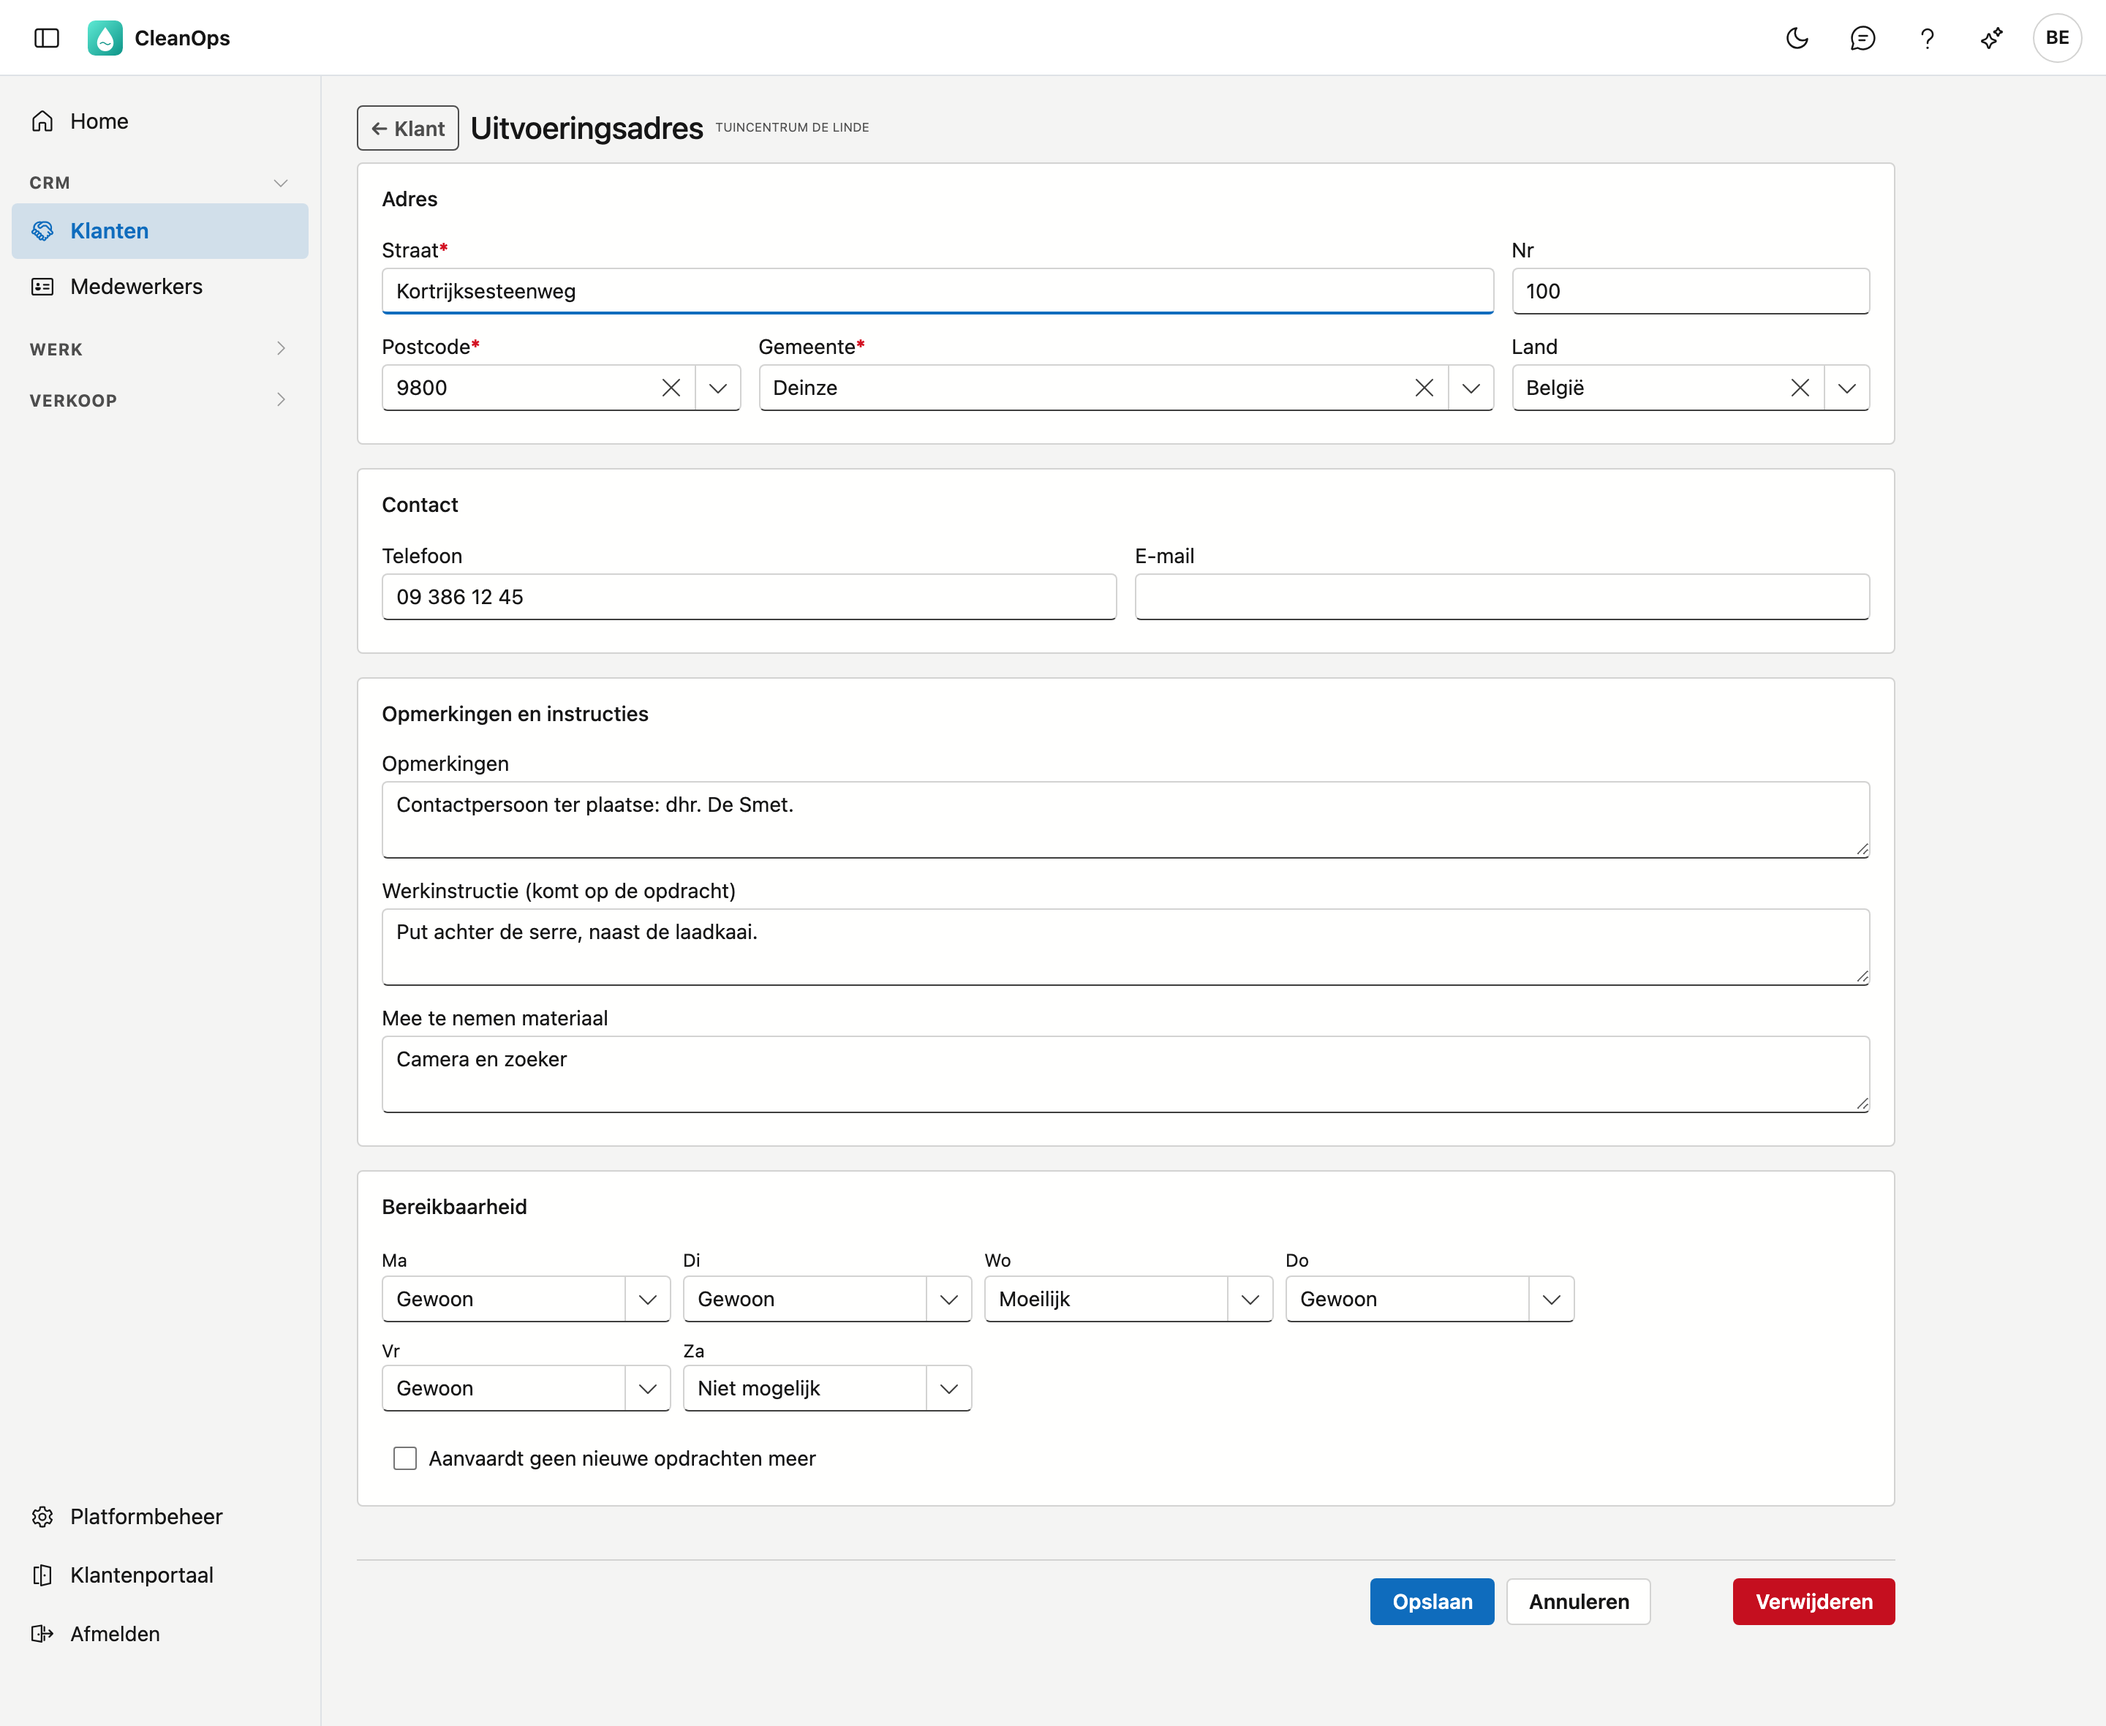
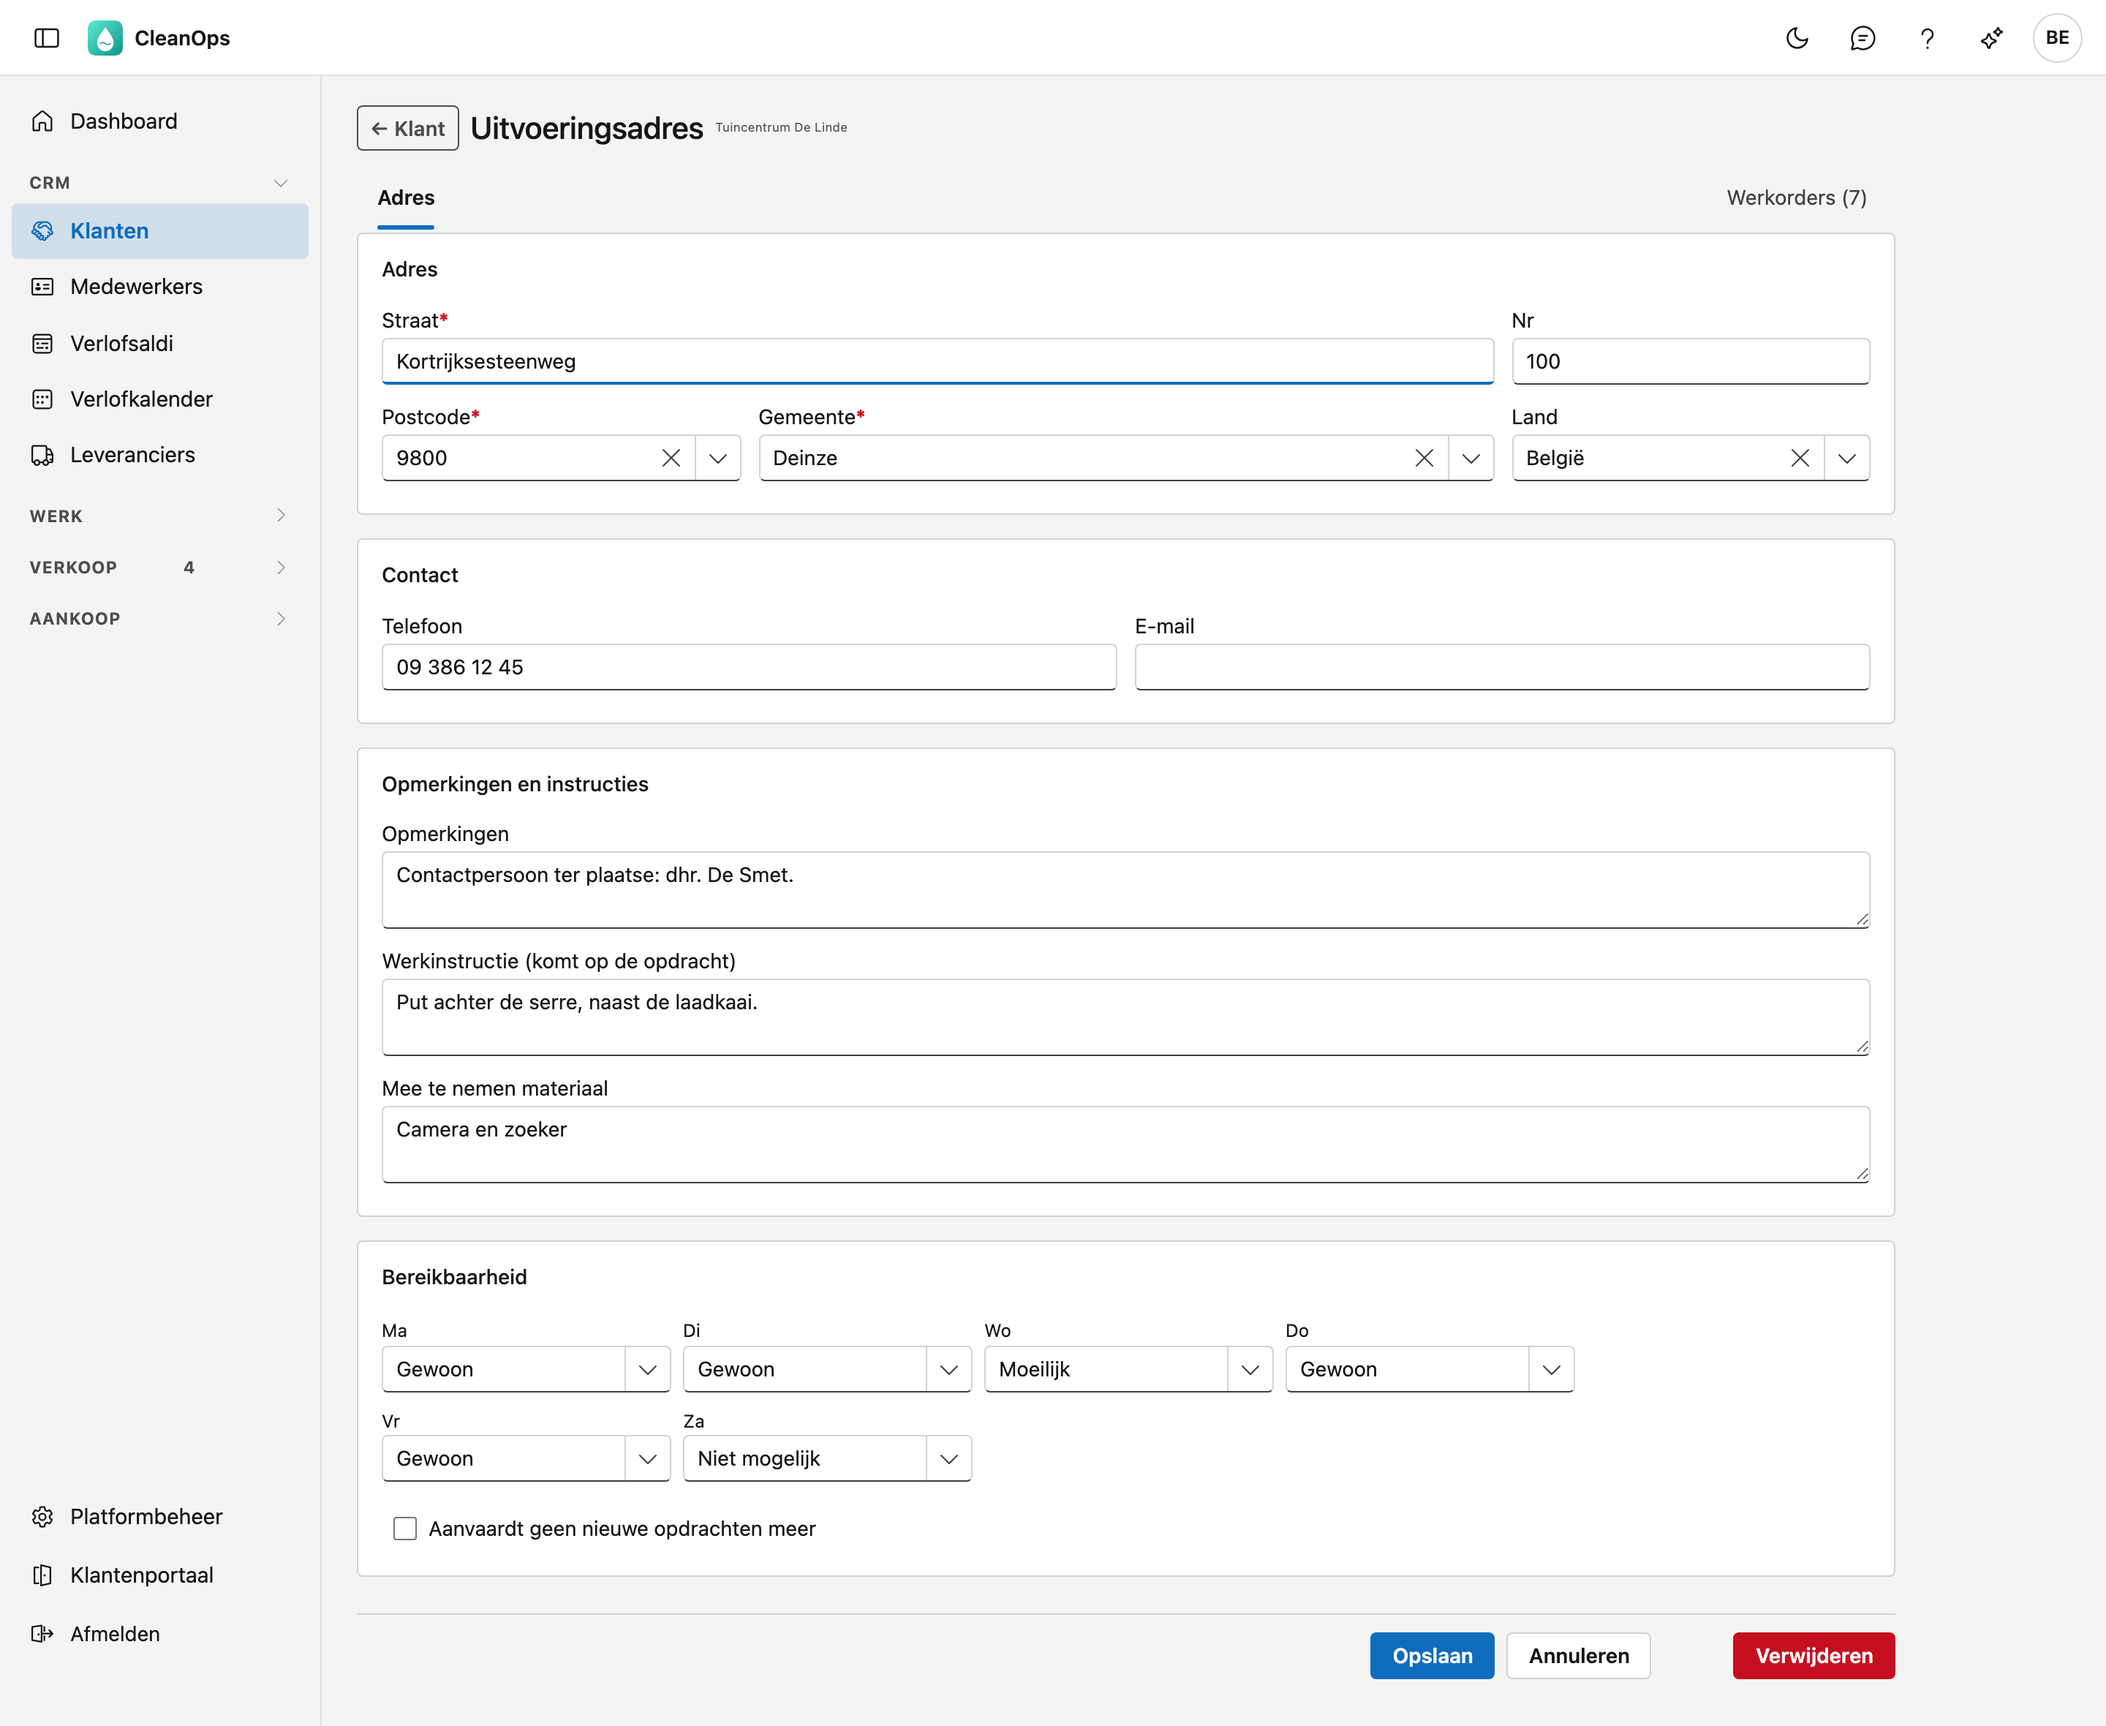
Klanten (NL/FR): adressen samenvoegen, naar een andere klant verplaatsen, en het tabblad Werkorders van een adres
- klanten.md / .fr.md, tabblad Adressen: Samenvoegen… (kiezen wat blijft, Aangevuld, Gaat niet mee, geen nieuwe opdrachten,
  prullenbak) en Verplaatsen naar klant… (wat meegaat, wat blijft, bestelnummer); op de adresfiche het tabblad Werkorders.
- attesten.md / .fr.md: "← Attesten" brengt u van een werkorder terug naar de lijst, met uw filters.
- Zes nieuwe beelden (NL/FR) uit de demotenant: klant-adressen-samenvoegen, klant-adres-verplaatsen, klant-adres-werkorders;
  klant-adres hernomen. tools/beelden.mjs: drie opnames — de vensters worden enkel geopend, nooit bevestigd.

diff --git a/docs/klanten.fr.md b/docs/klanten.fr.md
@@ -77,6 +77,45 @@ numéro et le même code postal, **double** figure à côté.
 
 **Nouvelle adresse** en ajoute une ; ouvrir une ligne vous mène à l'adresse même.
 
+#### Fusionner des adresses
+
+Si deux adresses ou plus désignent le même bâtiment — **double** figure souvent à côté —, cochez-les et cliquez sur
+**Fusionner…**. La fenêtre montre pour chaque adresse le nombre de contrats, d'ordres de travail ouverts et d'ordres
+clôturés qui y sont liés. Choisissez sous **Reste** l'adresse que vous gardez ; celle à laquelle le plus est lié est
+proposée.
+
+![La fenêtre Fusionner des adresses chez Résidence Les Tilleuls : deux fois Rue des Tilleuls 14, l'adresse qui reste choisie, avec ce qui est complété et ce qui n'est pas repris](images/klant-adressen-samenvoegen-fr.png "Fusionner des adresses")
+
+En dessous figure ce qui se passe, avant que vous confirmiez :
+
+- Les contrats et ordres de travail des autres adresses passent à l'adresse qui reste. Les ordres encore à exécuter
+  reçoivent aussi son adresse ; un ordre clôturé garde l'adresse de l'époque.
+- **Complété** — un champ vide sur l'adresse qui reste reçoit la valeur d'une autre adresse : téléphone, e-mail,
+  remarques, instruction de travail, matériel ou accessibilité.
+- **Ne sera pas repris** — si l'adresse qui reste a déjà une valeur, celle-ci est gardée. La valeur de l'autre adresse
+  est indiquée, pour que vous puissiez la reprendre vous-même.
+- Si une autre adresse est sur **N'accepte plus de nouvelles commandes**, la fenêtre le signale. L'adresse qui reste ne
+  le reprend pas ; activez-le vous-même si nécessaire.
+
+**Fusionner** place les autres adresses dans la [corbeille](beheer/prullenbak.fr.md). La modification figure dans
+l'historique de chaque contrat et de chaque ordre de travail qui a reçu une autre adresse.
+
+#### Déplacer des adresses vers un autre client
+
+Si une adresse appartient à un autre client — le bâtiment a été vendu, ou elle figure chez le mauvais client —,
+cochez-la et cliquez sur **Déplacer vers un client…**. Cherchez le nouveau client par son nom ou son numéro et cliquez
+sur **choisir**. La fenêtre indique alors ce qui part et ce qui reste :
+
+- Les **contrats en cours** (aussi ceux en attente) et les **ordres de travail encore à exécuter** partent chez le
+  nouveau client. Ces ordres reçoivent la langue du nouveau client ; un numéro de téléphone repris du client actuel
+  devient celui du nouveau.
+- Les **ordres de travail clôturés** et les **contrats terminés ou archivés** restent chez le client actuel : la
+  facturation y appartient.
+- Si un ordre qui part porte un numéro de commande du client actuel, celui-ci reste en place. La fenêtre le signale,
+  pour que vous puissiez le vérifier.
+
+![La fenêtre Déplacer des adresses vers un autre client : l'adresse de Résidence Les Tilleuls part chez un autre client, avec ce qui part et ce qui reste](images/klant-adres-verplaatsen-fr.png "Déplacer des adresses")
+
 ![Une adresse d'exécution de Résidence Les Tilleuls, avec une instruction de travail, le matériel à emporter et l'accessibilité par jour](images/klant-adres-fr.png "Adresse d'exécution")
 
 Sur une adresse d'exécution, la rue, le code postal et la commune sont obligatoires. Par ailleurs :
@@ -91,6 +130,19 @@ Sur une adresse d'exécution, la rue, le code postal et la commune sont obligato
 
 **Supprimer** place l'adresse dans la [corbeille](beheer/prullenbak.fr.md). **← Client** vous ramène à l'onglet
 Adresses.
+
+#### L'onglet Ordres de travail d'une adresse
+
+Sur une adresse existante, l'onglet **Ordres de travail** figure à côté d'**Adresse** : tous les ordres de travail à
+cette adresse, du plus récent au plus ancien, avec la planification, le statut, le collaborateur et le convoyeur, les
+instructions, le matériel, la remarque interne et le numéro de facture. Vous voyez ainsi ce qui était nécessaire les
+fois précédentes. Si du travail d'un autre client est lié à cette adresse — après un déplacement, le travail clôturé
+reste chez le client précédent —, une colonne **Client** s'ajoute.
+
+Double-cliquez sur un ordre pour l'ouvrir ; **← Adresse** vous ramène à cet onglet. L'onglet est visible pour qui peut
+ouvrir les ordres de travail.
+
+![L'onglet Ordres de travail d'une adresse d'exécution de Résidence Les Tilleuls : les ordres à cette adresse, du plus récent au plus ancien, avec leurs instructions](images/klant-adres-werkorders-fr.png "Ordres de travail d'une adresse")
 
 ### Ce qui est rattaché au client
 

diff --git a/docs/klanten.md b/docs/klanten.md
@@ -76,6 +76,44 @@ nummer en dezelfde postcode, dan staat er **dubbel** bij.
 
 Met **Nieuw adres** voegt u er één toe; een rij openen brengt u naar het adres zelf.
 
+#### Adressen samenvoegen
+
+Zijn twee of meer adressen hetzelfde pand — vaak staat er **dubbel** bij —, vink ze aan en klik **Samenvoegen…**. Het
+venster toont per adres hoeveel contracten, open werkorders en afgesloten werkorders eraan hangen. Kies bij **Blijft** het
+adres dat u houdt; voorgekozen is het adres waar het meeste aan hangt.
+
+![Het venster Adressen samenvoegen bij Tuincentrum De Linde: twee keer Kortrijksesteenweg 100, het blijvende adres gekozen, met wat er aangevuld wordt en wat niet meegaat](images/klant-adressen-samenvoegen.png "Adressen samenvoegen")
+
+Daaronder staat wat er gebeurt, vóór u bevestigt:
+
+- De contracten en werkorders van de andere adressen gaan naar het blijvende adres. Werkorders die nog moeten gebeuren,
+  krijgen ook zijn adres; een afgesloten werkorder houdt het adres van toen.
+- **Aangevuld** — een veld dat leeg is op het blijvende adres, krijgt de waarde van een ander adres: telefoon, e-mail,
+  opmerkingen, werkinstructie, materiaal of bereikbaarheid.
+- **Gaat niet mee** — heeft het blijvende adres zelf een waarde, dan blijft die. De waarde van het andere adres staat
+  erbij, zodat u ze zelf kunt overnemen.
+- Staat een ander adres op **Aanvaardt geen nieuwe opdrachten meer**, dan zegt het venster dat. Het blijvende adres
+  neemt dat niet over; zet het zelf aan als het moet.
+
+Met **Samenvoegen** gaan de andere adressen naar de [prullenbak](beheer/prullenbak.md). De wijziging staat in het
+logboek van elk contract en elke werkorder die een ander adres kreeg.
+
+#### Adressen naar een andere klant verplaatsen
+
+Hoort een adres bij een andere klant — het pand werd verkocht, of het staat bij de verkeerde klant —, vink het aan en
+klik **Verplaatsen naar klant…**. Zoek de nieuwe klant op naam of nummer en klik **kies**. Het venster zegt dan wat er
+meegaat en wat blijft:
+
+- De **lopende contracten** (ook die on hold) en de **werkorders die nog moeten gebeuren** gaan mee naar de nieuwe
+  klant. Die werkorders krijgen de taal van de nieuwe klant; een telefoonnummer dat van de huidige klant kwam, wordt dat
+  van de nieuwe.
+- **Afgesloten werkorders** en **beëindigde of gearchiveerde contracten** blijven bij de huidige klant: daar hoort de
+  facturatie.
+- Draagt een meegaande werkorder een bestelnummer van de huidige klant, dan blijft dat staan. Het venster waarschuwt
+  ervoor, zodat u het kunt nakijken.
+
+![Het venster Adressen naar een andere klant verplaatsen: het adres van Tuincentrum De Linde gaat naar een andere klant, met wat meegaat en wat blijft](images/klant-adres-verplaatsen.png "Adressen verplaatsen")
+
 ![Een uitvoeringsadres van Tuincentrum De Linde, met een werkinstructie, het mee te nemen materiaal en de bereikbaarheid per dag](images/klant-adres.png "Uitvoeringsadres")
 
 Op een uitvoeringsadres zijn straat, postcode en gemeente verplicht. Verder:
@@ -90,6 +128,18 @@ Op een uitvoeringsadres zijn straat, postcode en gemeente verplicht. Verder:
 
 **Verwijderen** legt het adres in de [prullenbak](beheer/prullenbak.md). Met **← Klant** keert u terug naar
 het tabblad Adressen.
+
+#### Het tabblad Werkorders van een adres
+
+Op een bestaand adres staat naast **Adres** het tabblad **Werkorders**: alle werkorders op dat adres, de nieuwste eerst,
+met de planning, de status, de medewerker en de bijrijder, de instructies, het materiaal, de interne opmerking en het
+factuurnummer. Zo ziet u wat er de vorige keren nodig was. Hangt er werk van een andere klant aan dit adres — na een
+verplaatsing blijft afgesloten werk bij de vorige klant —, dan staat er een kolom **Klant** bij.
+
+Dubbelklik op een werkorder om ze te openen; **← Adres** brengt u terug naar dit tabblad. Het tabblad staat er voor wie
+de werkorders mag openen.
+
+![Het tabblad Werkorders van een uitvoeringsadres van Tuincentrum De Linde: de werkorders op dat adres, de nieuwste eerst, met hun instructies](images/klant-adres-werkorders.png "Werkorders van een adres")
 
 ### Wat aan de klant hangt
 

diff --git a/docs/attesten.fr.md b/docs/attesten.fr.md
@@ -15,7 +15,7 @@ sur sa fiche, dans l'onglet **Attestations** (voir [Ordres de travail](werkorder
 
 En haut figurent les ordres de travail qui demandent une attestation (la case **Attestation requise** sur l'ordre de
 travail) ou qui en ont déjà une. Cliquez sur un ordre de travail : en dessous apparaissent les **Attestations de l'ordre
-de travail**. Double-cliquez sur un ordre de travail pour ouvrir sa fiche.
+de travail**. Double-cliquez sur un ordre de travail pour ouvrir sa fiche ; **← Attestations** vous ramène à cette liste, avec vos filtres.
 
 | Filtre | Ce qu'il fait |
 |---|---|

diff --git a/docs/attesten.md b/docs/attesten.md
@@ -15,7 +15,7 @@ tabblad **Attesten** (zie [Werkorders](werkorders.md)).
 
 Bovenaan staan de werkorders die een attest vragen (het vinkje **Attest vereist** op de werkorder) of er al een hebben.
 Klik een werkorder aan: daaronder verschijnen **Attesten van werkorder** met zijn attesten. Dubbelklik op een werkorder om
-de werkorderfiche te openen.
+de werkorderfiche te openen; **← Attesten** brengt u terug naar deze lijst, met uw filters.
 
 | Filter | Wat het doet |
 |---|---|
